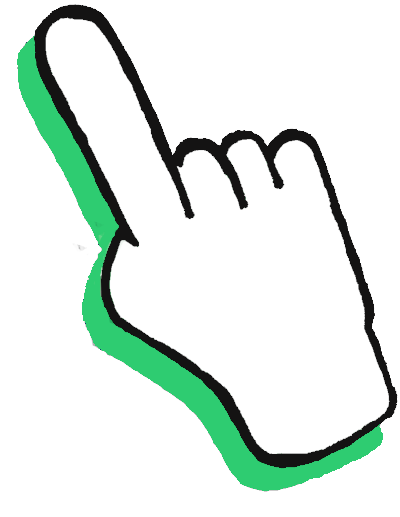
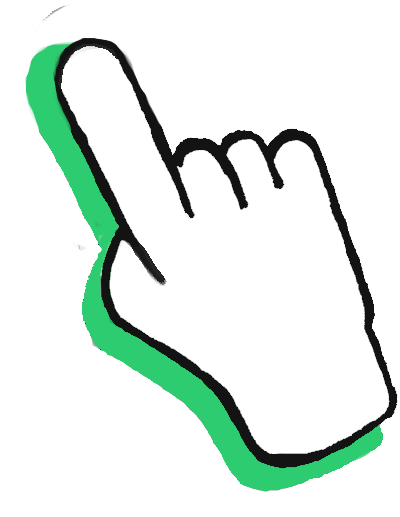
- the finger

diff --git a/script/cursor.js b/script/cursor.js
@@ -17,8 +17,8 @@ function initializeCursor(simulationId, sessionKey) {
 }
 
 function cursorMoved(e) {
-    cursorClientX=e.clientX;
-    cursorClientY=e.clientY+2;
+    cursorClientX=e.clientX-1;
+    cursorClientY=e.clientY;
 }
 
 function onKeyDown(e) {
